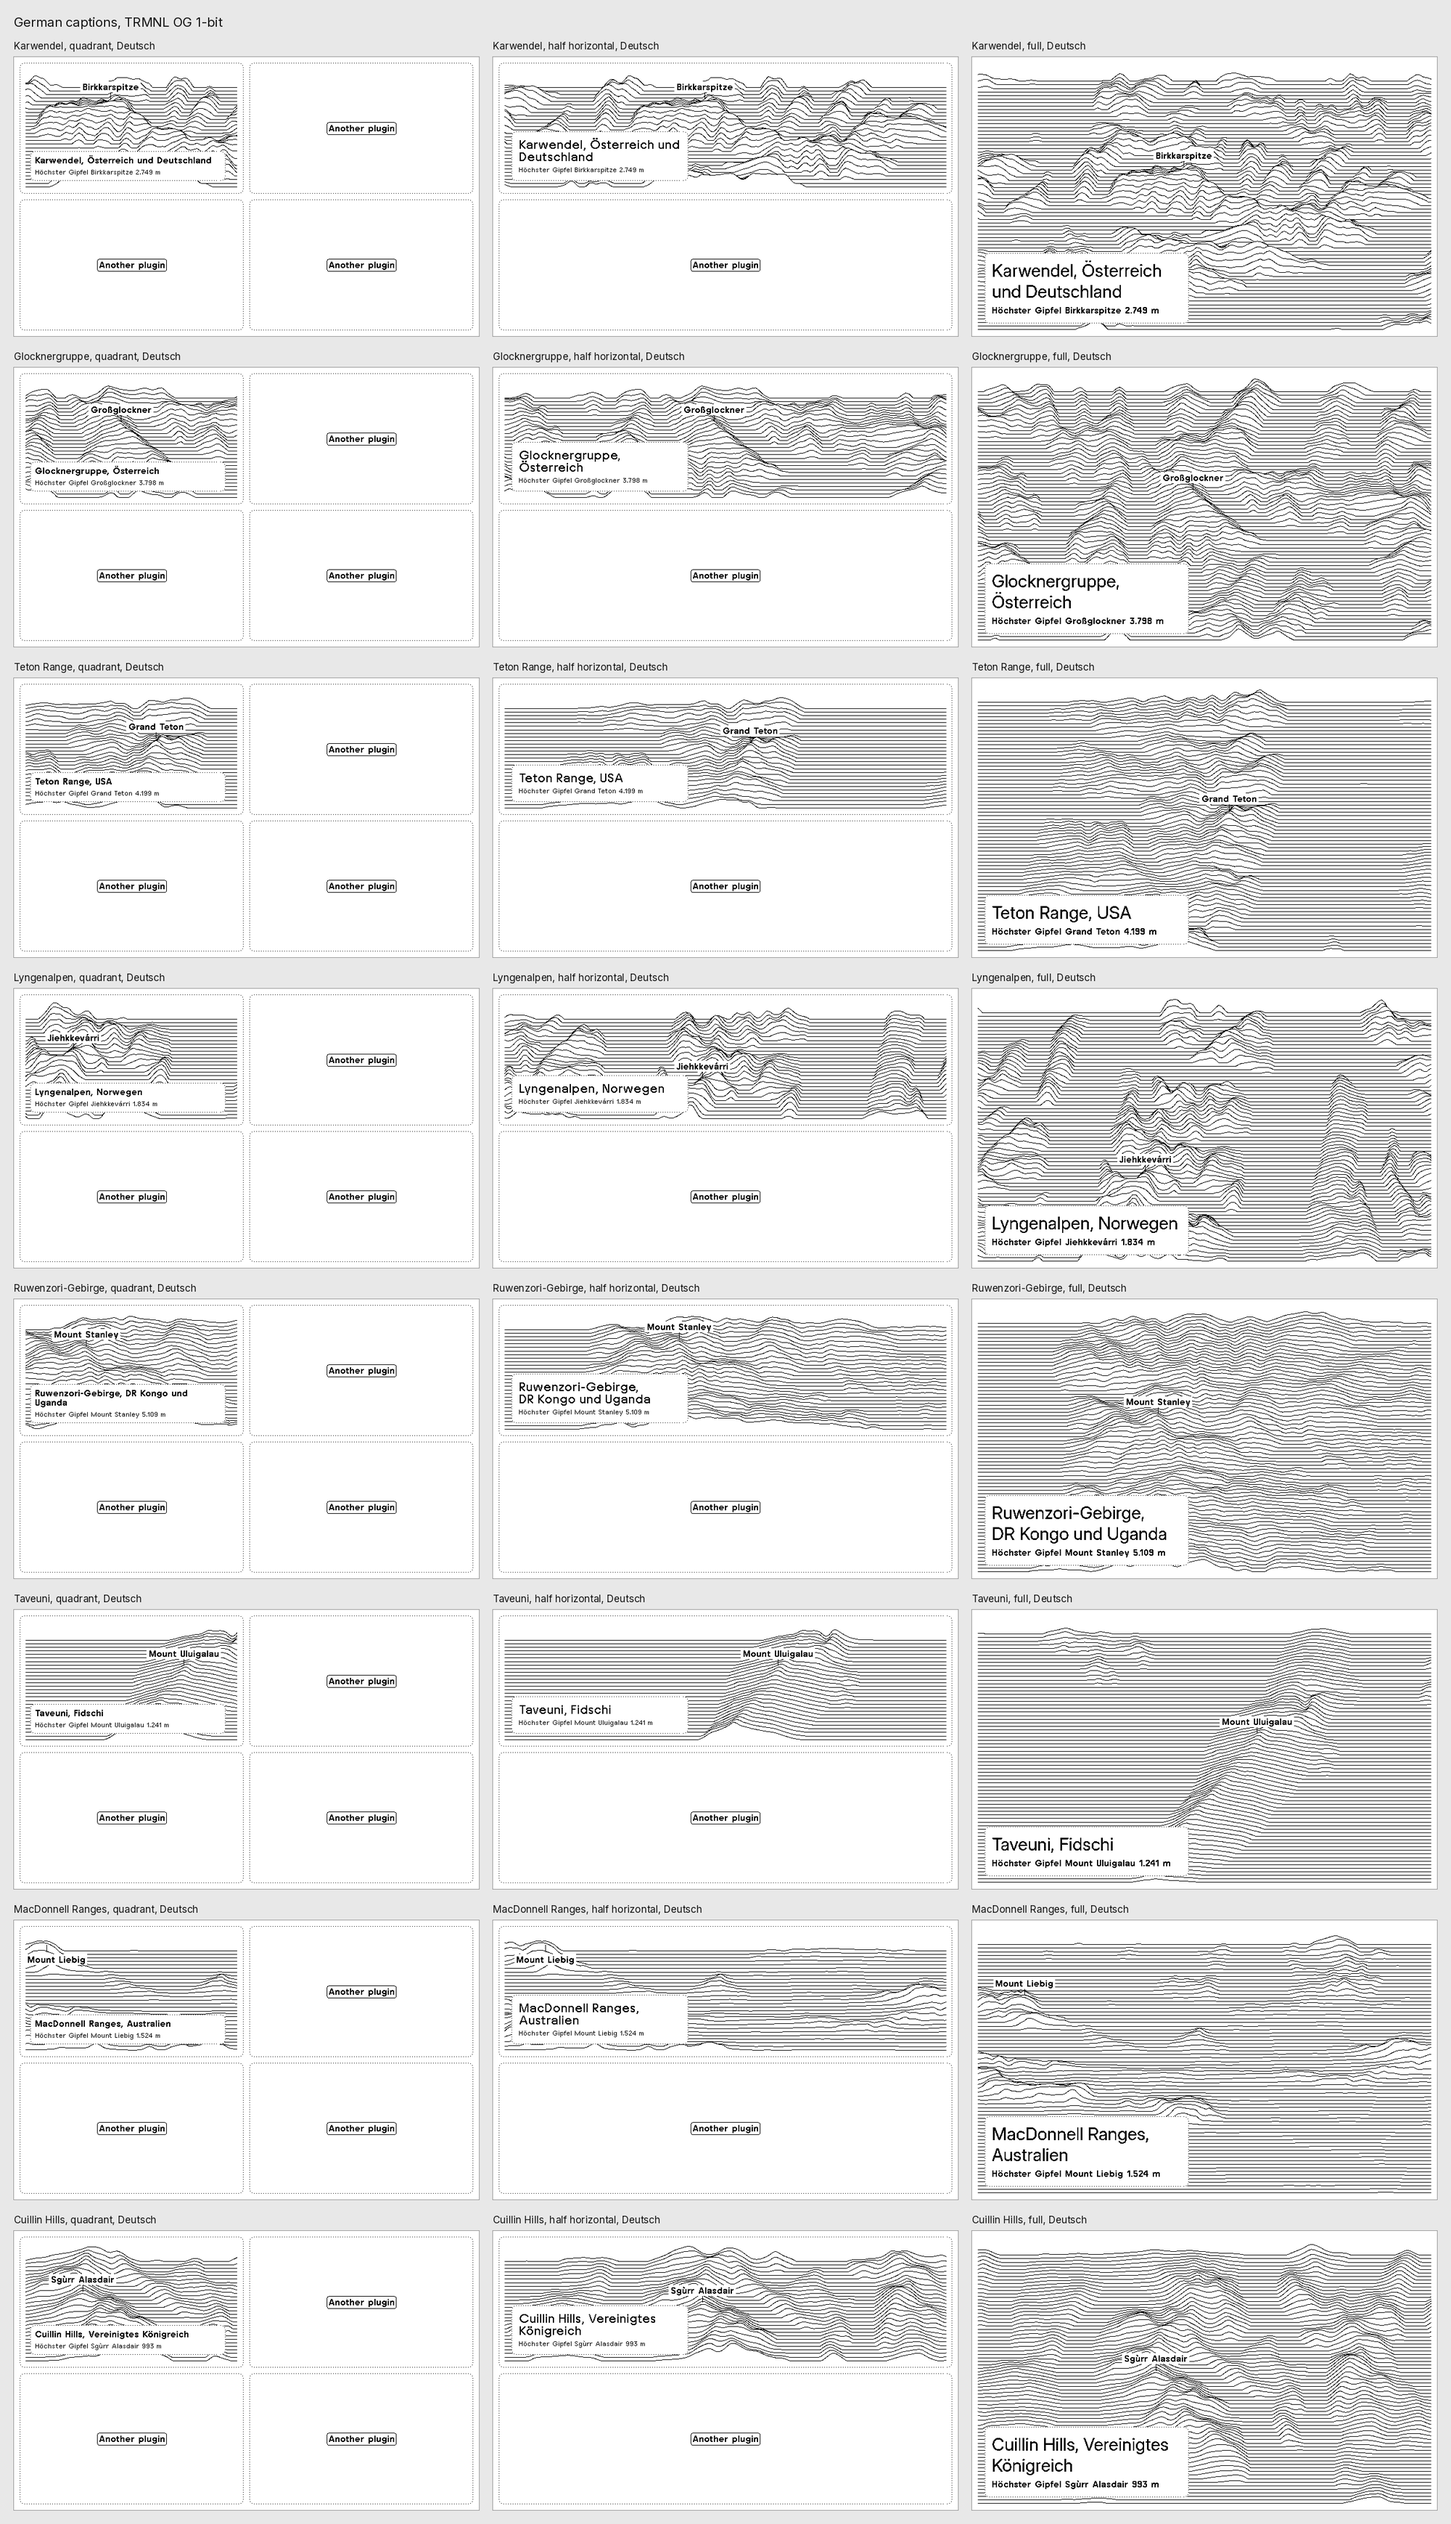
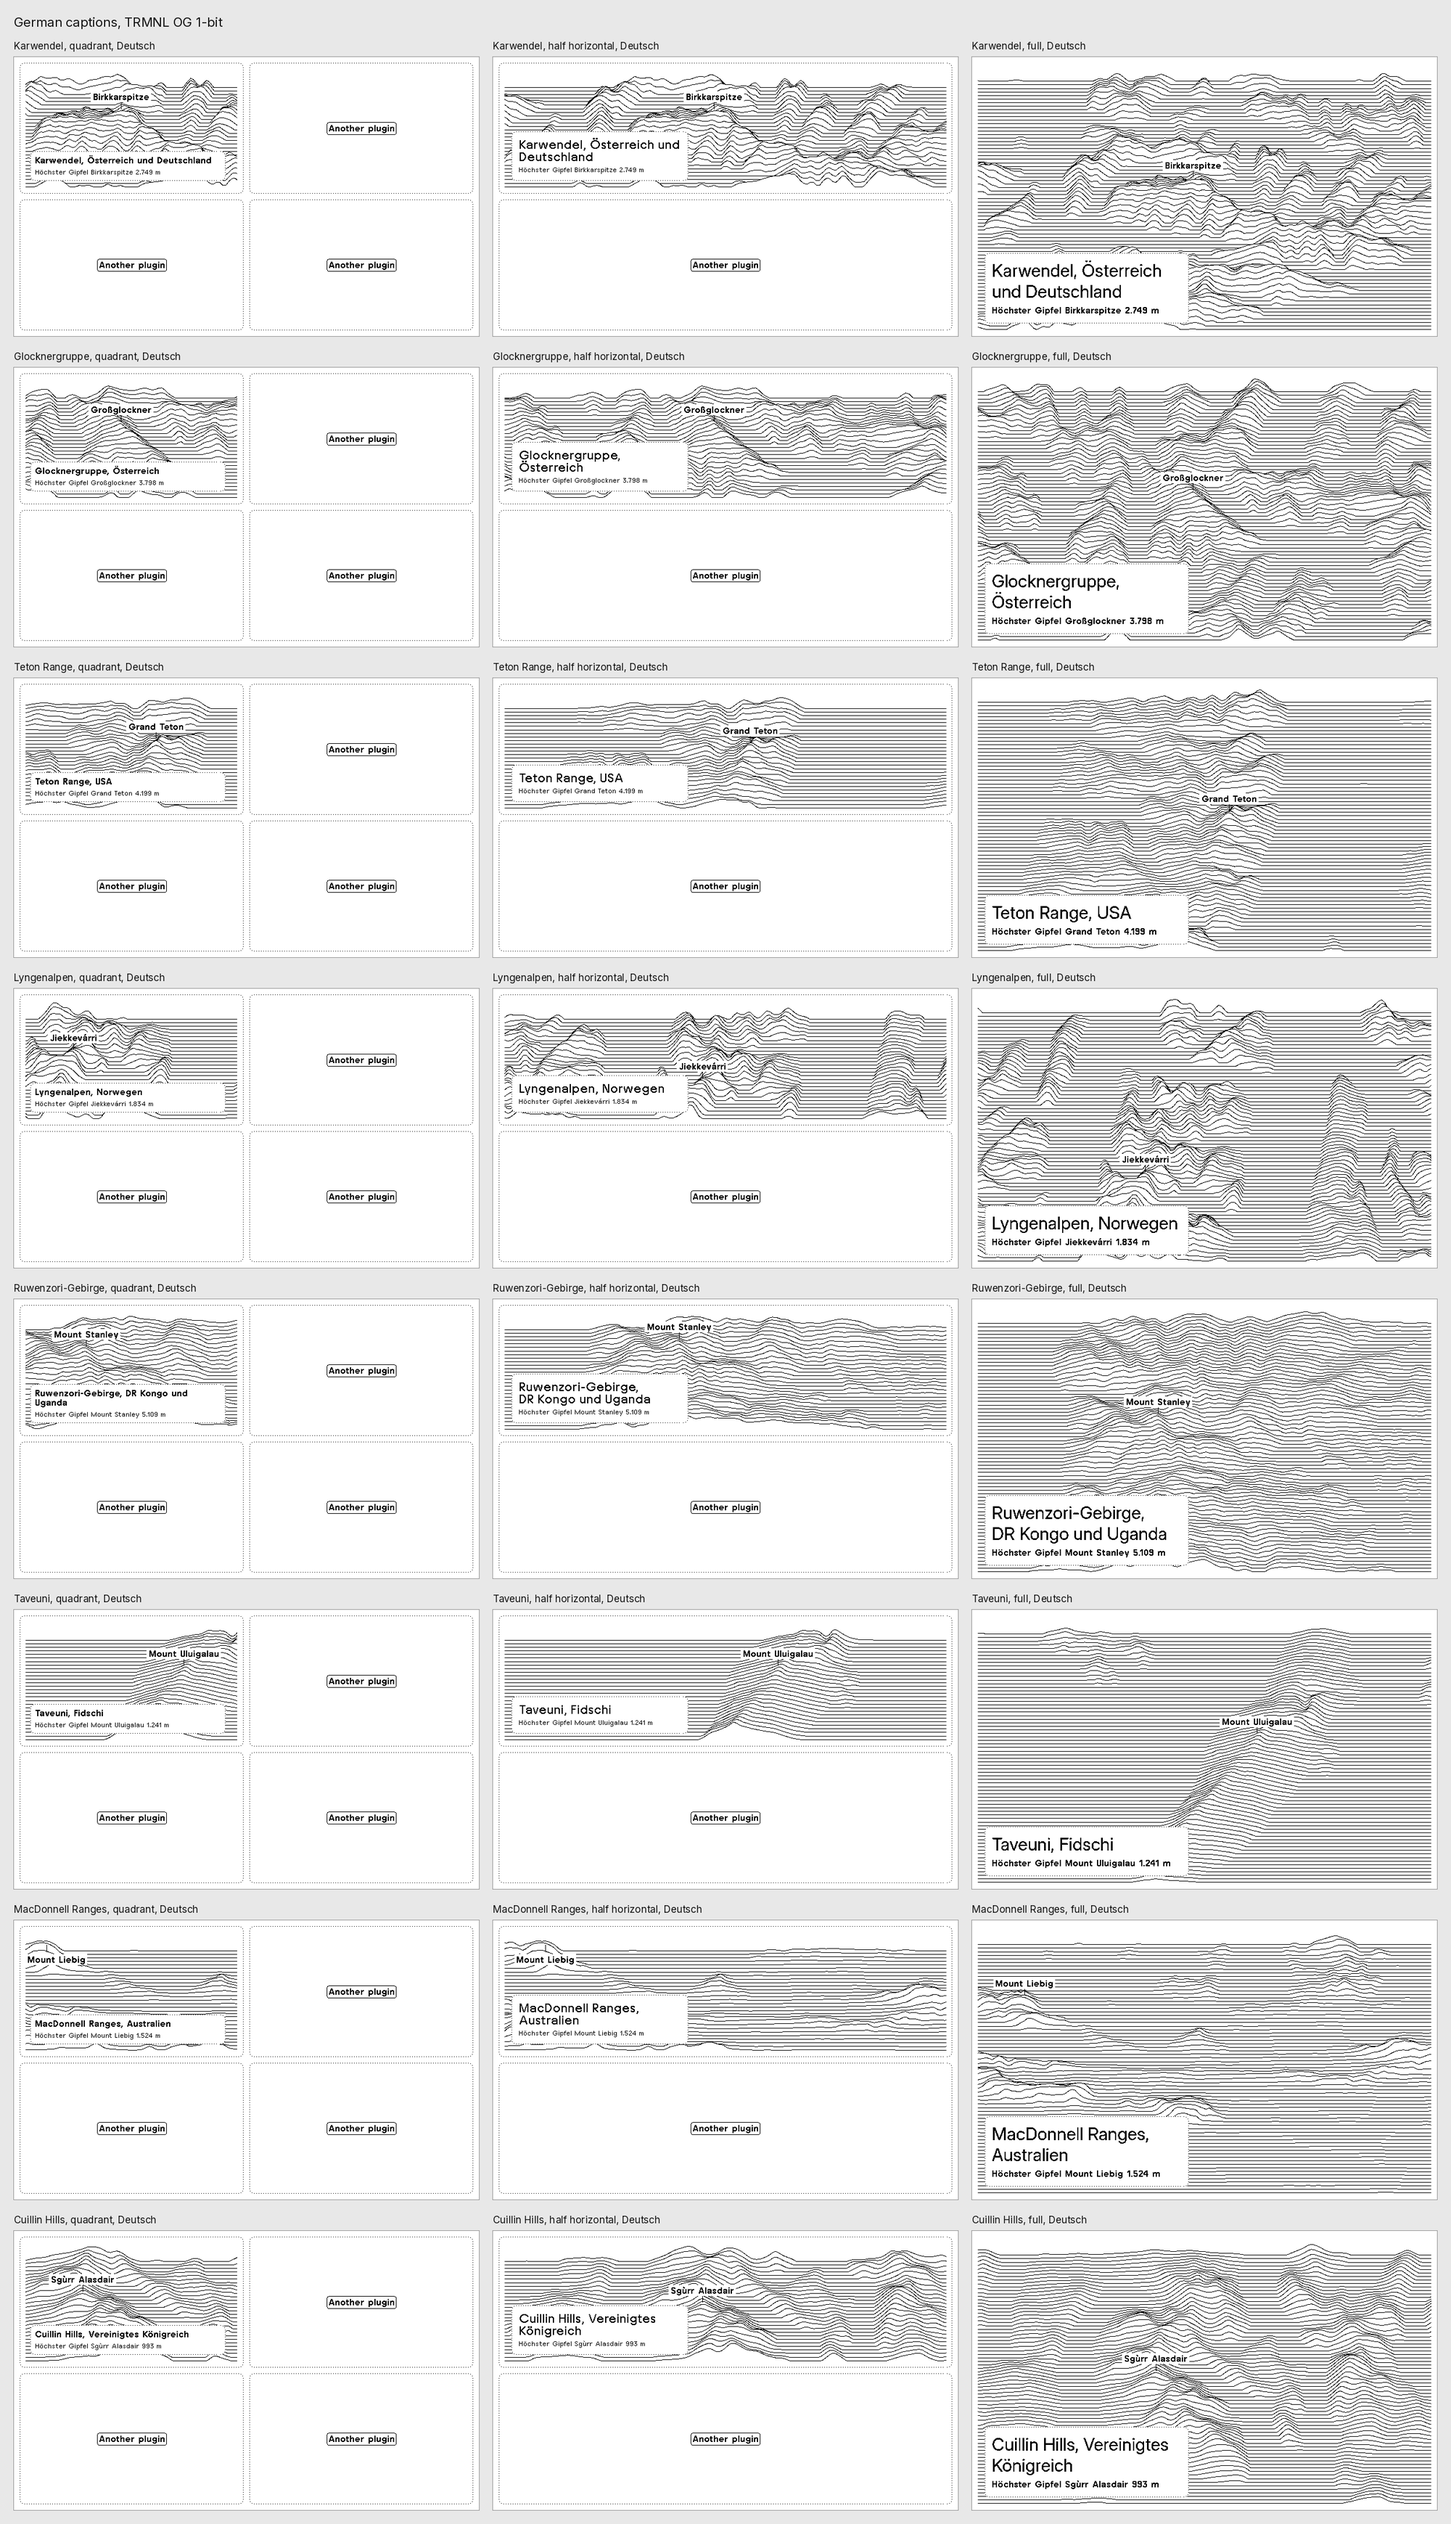
Show peak names in the recipe's language
English shows Wikidata's English label and German the German label; the
local name only fills a missing label. The payload's peak name is now
keyed by language, like every other word on screen.

Claude-Session: https://claude.ai/code/session_011J9r76qSP61jnjWWAav2AA

Changed region(s): [[0.682, 0.0311, 0.992, 0.1242], [0.341, 0.0311, 0.651, 0.0932], [0.0, 0.0311, 0.186, 0.0621]]

diff --git a/pipeline/entries.py b/pipeline/entries.py
@@ -101,8 +101,7 @@ def sparql(q, name):
 
 
 def local_name(pqid, en, de):
-    """The peak's local name, used in every language (Niko, 2026-10-02: Großglockner and
-    Mont Blanc in English and German alike). 1. Wikidata's native label (P1705); with
+    """The peak's local name, used only where Wikidata lacks the label in a language. 1. Wikidata's native label (P1705); with
     several (Mont Blanc: French and Italian), the one matching the English or German label.
     2. Otherwise the label in the official language (P37) of the peak's country; for a
     border summit with several, the one matching the German or English label.
@@ -153,7 +152,10 @@ def wikidata(qid):
     local, source = local_name(pqid, v(b, "pl"), v(b, "pde"))
     return dict(
         qid=qid, name={"en": v(b, "rl"), "de": v(b, "rde") or v(b, "rl")},
-        peak={"en": local, "de": local}, peak_name_source=source, peak_labels={"en": v(b, "pl"), "de": v(b, "pde")},
+        # Each language shows its own Wikidata label (Niko, 2026-10-02, replacing local names the
+        # same day); the local name only fills a missing label.
+        peak={"en": v(b, "pl") or local, "de": v(b, "pde") or v(b, "pl") or local},
+        peak_name_source=source, peak_labels={"en": v(b, "pl"), "de": v(b, "pde")},
         peak_m=round(float(v(b, "elev"))), peak_lat=lat, peak_lon=lon,
         country=countries(v(b, "cs"), (v(b, "pcs") or "").split("|")),
         elevations_listed=sorted({round(float(r["elev"]["value"])) for r in rows}),

diff --git a/pipeline/publish.py b/pipeline/publish.py
@@ -36,7 +36,7 @@ def payload(e):
         "side_km": e["crop"]["side_km"], "width_km": e["crop"]["width_km"],
         "floor": e["floor"], "top": e["top"],
         "peak_x": e["peak_km"][0], "peak_y": e["peak_km"][1],
-        "peak": e["peak"]["en"],                       # local name, the same in every language
+        "peak": {l: e["peak"][l] for l in words.LANGS},
         "box_title": {l: words.headline(e, l) for l in words.LANGS},
         "box_peak": {l: {u: words.peak_line(e, l, u) for u in words.UNITS} for l in words.LANGS},
         "caption": {l: {u: words.captions(e, l, u) for u in words.UNITS} for l in words.LANGS},

diff --git a/PROJECT.md b/PROJECT.md
@@ -28,7 +28,8 @@ Beta (built 2026-10-02): `pipeline/entries.py` builds each listed range from Cop
 | 2026-10-02 | Beta first: ranges in Germany and Austria only, for Niko to beta test before the worldwide list. The pipeline is built once for all areas; the beta only narrows the curated list | Niko |
 | 2026-10-02 | Beta served from GitHub Pages, no Worker: static payloads per calendar slot, picked by the Polling URL from the date and the user's UTC offset, as in Downstream. The Worker stays the plan for the worldwide list if Pages falls short | Niko |
 | 2026-10-02 | Grey screens draw black lines only, no shading by height | Niko, after docs/mockups/shade_ogv2.png and shade_v2.png |
-| 2026-10-02 | Peak names are the local name in every language: Großglockner and Mont Blanc in English and German alike. Source order: Wikidata native label (P1705), picking the one that matches the English or German label when there are several (Mont Blanc over Monte Bianco); else the label in the official language (P37) of the summit's country, for a border summit the one matching the German or English label (Hochstuhl over Stol); else the English label. Range names stay translated | Niko. tools/mockup/fixtures.py `local_name` |
+| 2026-10-02 | *Superseded the same day by the next row.* Peak names are the local name in every language: Großglockner and Mont Blanc in English and German alike. Source order: Wikidata native label (P1705), picking the one that matches the English or German label when there are several (Mont Blanc over Monte Bianco); else the label in the official language (P37) of the summit's country, for a border summit the one matching the German or English label (Hochstuhl over Stol); else the English label. Range names stay translated | Niko. tools/mockup/fixtures.py `local_name` |
+| 2026-10-02 | Peak names follow the recipe's language after all: Wikidata's English label in English, the German label in German (Grossglockner and Großglockner, Stol / Hochstuhl and Hochstuhl). The local name only fills a missing label | Niko. pipeline/entries.py `wikidata`, payload `peak` keyed by language |
 | 2026-10-02 | Ranges in more than two countries show the first country and a count: "Rätikon, Austria and 2 more", "Rätikon, Österreich und 2 weitere". The summit's countries come first | Niko. tools/mockup/render.py `countries` |
 | 2026-10-02 | All licensing goes on the About page (the settings.yml `author_bio` field), as in the other recipes: the GLO-90 notice, the liability sentence, and the Wikidata credit. Nothing on screen. The GLO-90 licence names no place for the notice (Findings, GLO-90 licence) | Niko |
 | 2026-10-01 | Settings: peak name above the highest peak (boolean, on), title bar (boolean, off), info box at bottom left in Downstream's text box style with range and country as headline and "Highest peak Birkkarspitze 2,749 m" smaller below (German "Höchster Gipfel Birkkarspitze 2.749 m", imperial "9,020 ft" to the nearest 10 ft) (boolean, on), language (select: English (US) or German, English default), units (select: metric or imperial, metric default). Replaces the brief's Caption show/hide setting |
